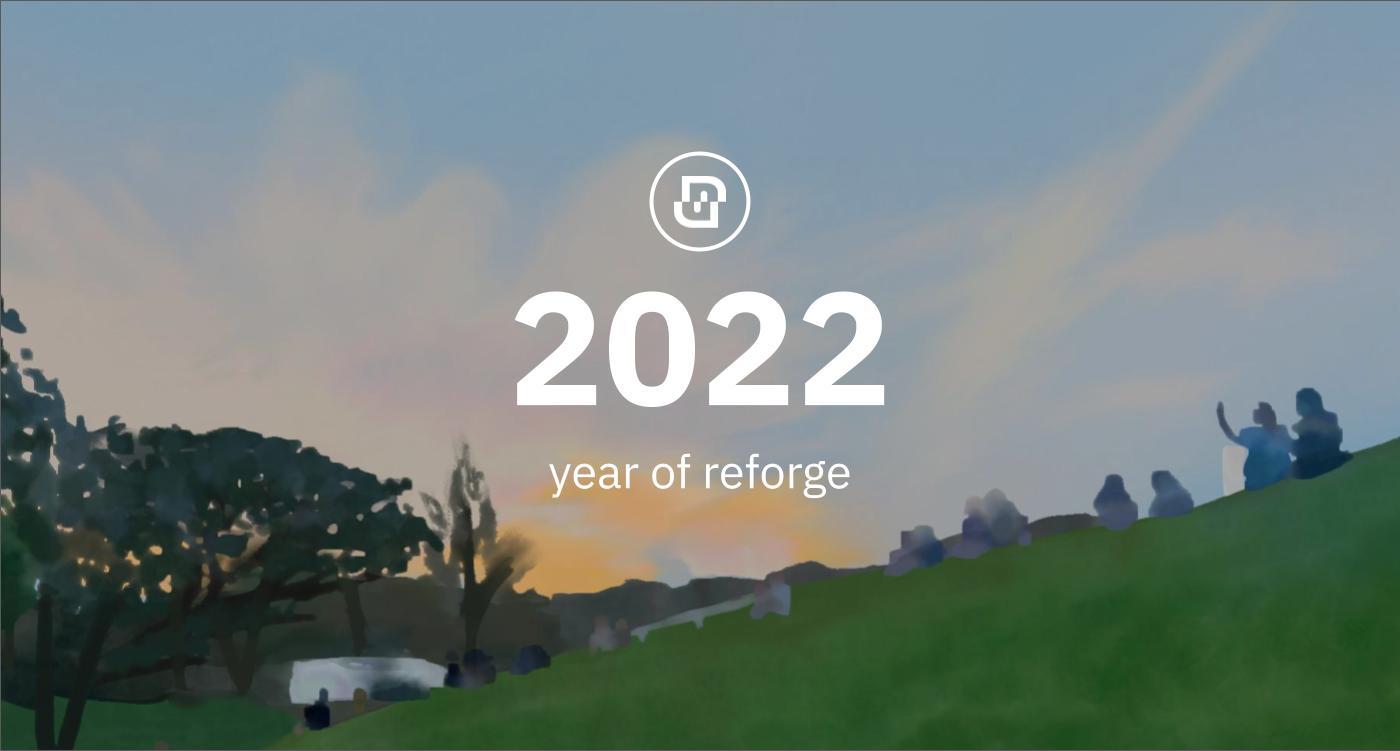
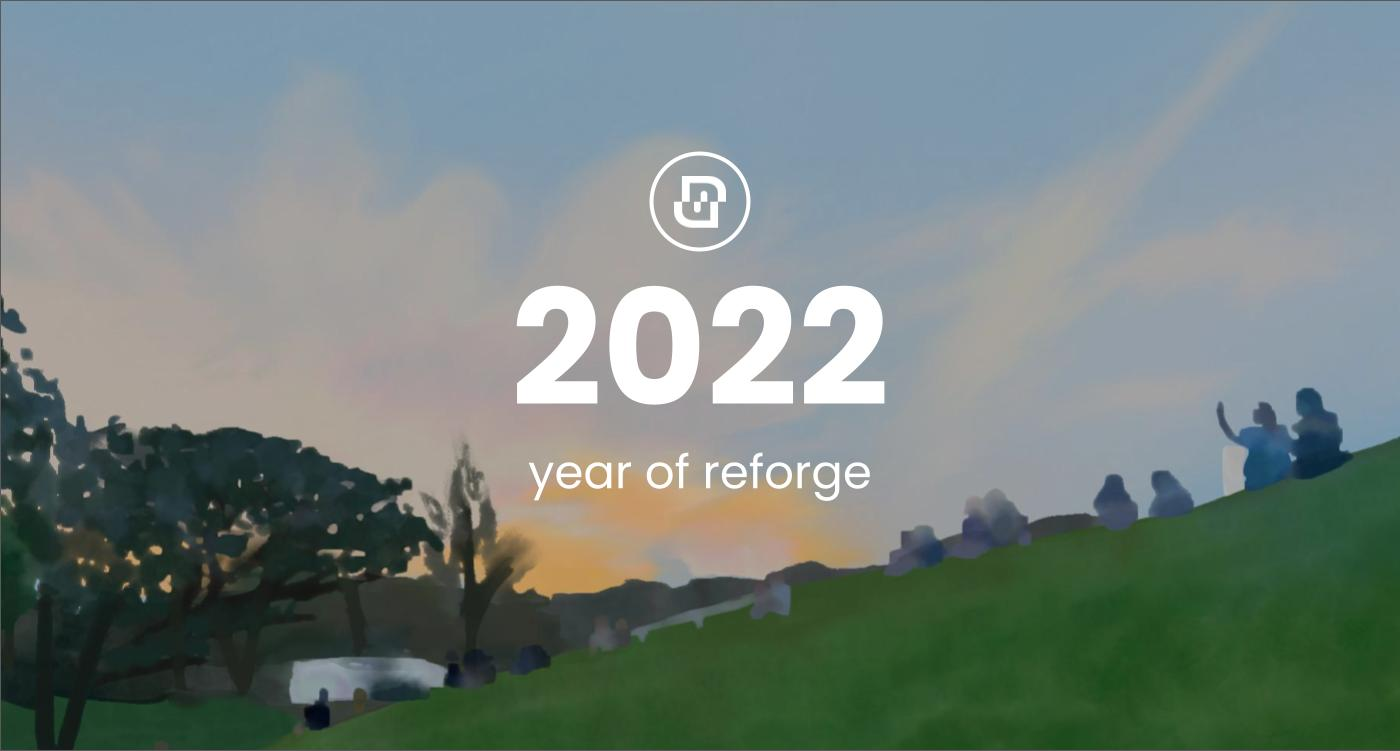
Update content and cover

Changed region(s): [[0.3686, 0.3675, 0.645, 0.5513], [0.3686, 0.6125, 0.645, 0.6738]]

diff --git a/src/components/Layout/Nav.tsx b/src/components/Layout/Nav.tsx
@@ -46,7 +46,7 @@ const Nav: React.FC = () => (
     <NavContainer className="container">
       <Branding className="navbar-brand">
         <Link className="navbar-item" to="/">
-          <StaticImage alt="MicroBenz" src="./logo.png" />
+          <StaticImage alt="MicroBenz" src="./logo-v2.png" />
         </Link>
         {/* <BetaTag className="tag is-danger">Beta</BetaTag> */}
 

diff --git a/content/blog/29-2022-review/index.md b/content/blog/29-2022-review/index.md
@@ -233,3 +233,7 @@ published: true
 **เราอ่อนแอได้ และมันไม่เป็นอะไรเลยที่จะอ่อนแอ และไม่ต้องรีบร้อนที่จะต้องกลับมาเข้มแข็งนะ เวลาจะเป็นคนบอกมันเอง**
 
 > สวัสดีปีใหม่ 2023 ทุกคนนะครับ :)
+
+Ps. ใครสังเกตดีๆ ผมมี CI ใหม่ โลโก้ใหม่แล้ววววว
+
+![โลโก้ใหม่](./new-logo.png)
